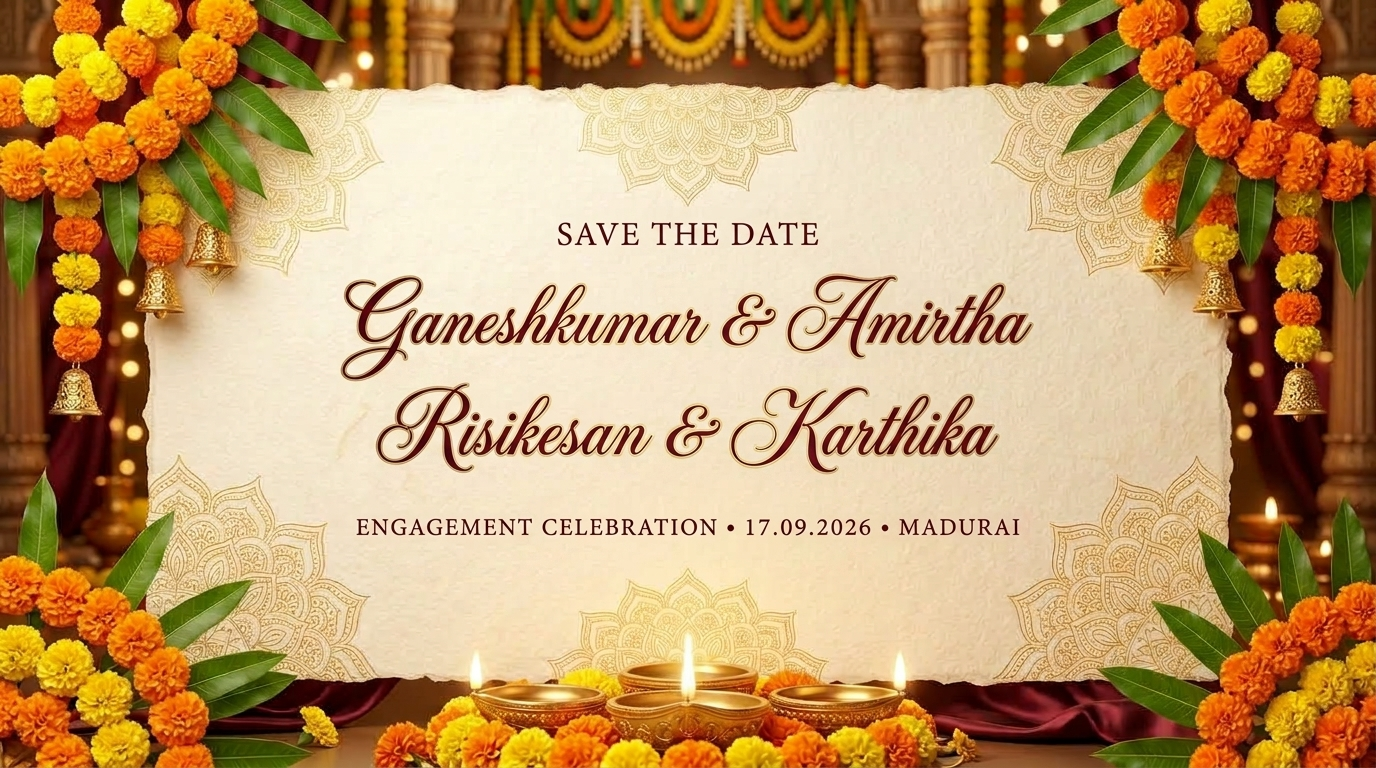
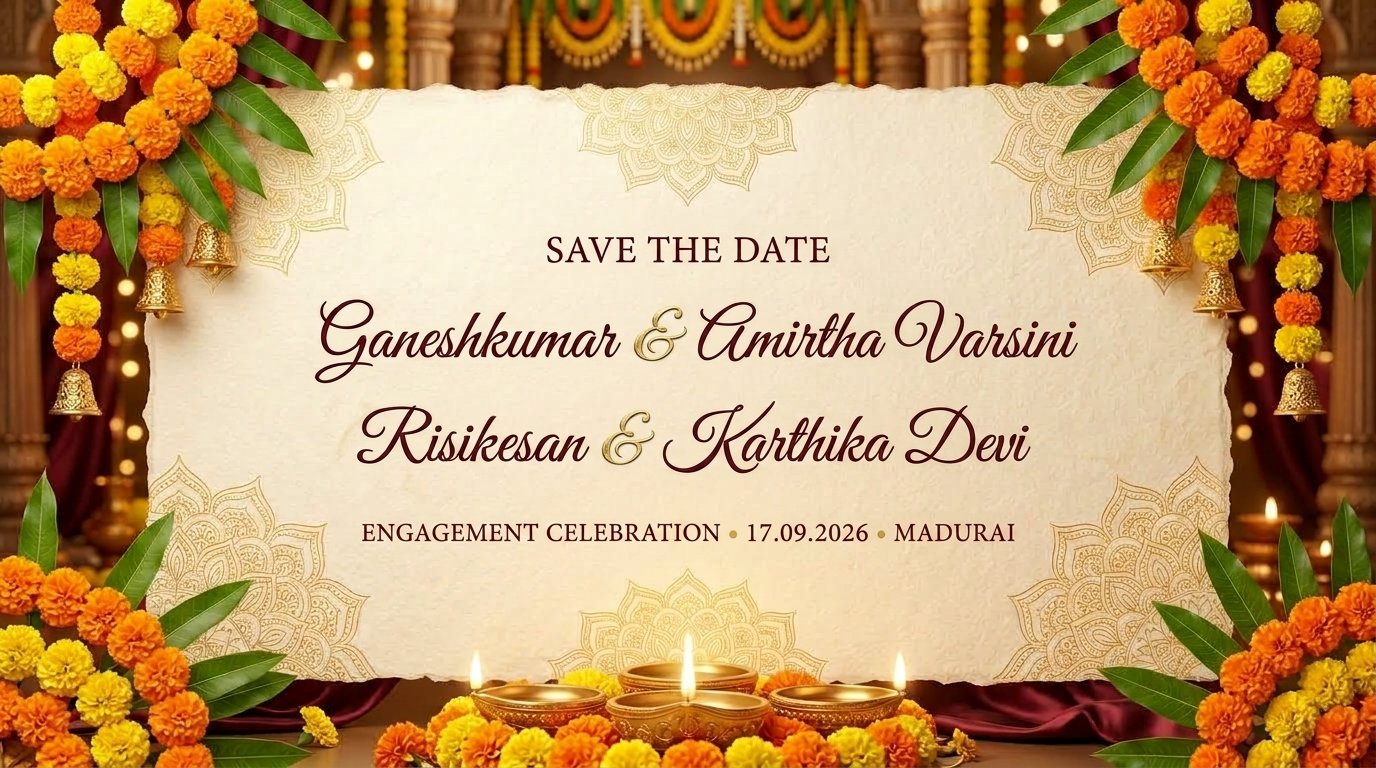
Change place to Madurai and update brides names to Amirtha Varsini and Karthika Devi

Changed region(s): [[0.2188, 0.2812, 0.7812, 0.5], [0.25, 0.5, 0.75, 0.625], [0.25, 0.6562, 0.75, 0.7188]]

diff --git a/index.html b/index.html
@@ -3,27 +3,27 @@
   <head>
     <meta charset="UTF-8" />
     <meta name="viewport" content="width=device-width, initial-scale=1.0, viewport-fit=cover" />
-    <title>Ganeshkumar &amp; Amirtha, Risikesan &amp; Karthika — Engagement Invitation</title>
-    <meta name="description" content="Join us in celebrating the engagement of Ganeshkumar &amp; Amirtha along with Risikesan &amp; Karthika on Thursday, 17th September 2026 at V S Chellam Saraswathy Maaligai, Madurai." />
+    <title>Ganeshkumar &amp; Amirtha Varsini, Risikesan &amp; Karthika Devi — Engagement Invitation</title>
+    <meta name="description" content="Join us in celebrating the engagement of Ganeshkumar &amp; Amirtha Varsini along with Risikesan &amp; Karthika Devi on Thursday, 17th September 2026 at V S Chellam Saraswathy Maaligai, Madurai." />
     <link rel="icon" type="image/x-icon" href="/favicon.ico" />
 
     <!-- Open Graph / Facebook / WhatsApp / Telegram -->
     <meta property="og:type" content="website" />
     <meta property="og:url" content="https://ganeshkumar-amirtha.invitingyou.top/" />
-    <meta property="og:title" content="Ganeshkumar &amp; Amirtha, Risikesan &amp; Karthika — Engagement Invitation" />
-    <meta property="og:description" content="We warmly invite you to celebrate the Engagement Ceremony of Ganeshkumar &amp; Amirtha and Risikesan &amp; Karthika on September 17, 2026 at Madurai." />
+    <meta property="og:title" content="Ganeshkumar &amp; Amirtha Varsini, Risikesan &amp; Karthika Devi — Engagement Invitation" />
+    <meta property="og:description" content="We warmly invite you to celebrate the Engagement Ceremony of Ganeshkumar &amp; Amirtha Varsini and Risikesan &amp; Karthika Devi on September 17, 2026 at Madurai." />
     <meta property="og:image" content="https://ganeshkumar-amirtha.invitingyou.top/og-image.png" />
     <meta property="og:image:secure_url" content="https://ganeshkumar-amirtha.invitingyou.top/og-image.png" />
     <meta property="og:image:type" content="image/png" />
     <meta property="og:image:width" content="1200" />
     <meta property="og:image:height" content="630" />
-    <meta property="og:image:alt" content="Engagement Invitation of Ganeshkumar &amp; Amirtha, Risikesan &amp; Karthika" />
-    <meta property="og:site_name" content="Ganeshkumar &amp; Amirtha Wedding Invitation" />
+    <meta property="og:image:alt" content="Engagement Invitation of Ganeshkumar &amp; Amirtha Varsini, Risikesan &amp; Karthika Devi" />
+    <meta property="og:site_name" content="Ganeshkumar &amp; Amirtha Varsini Wedding Invitation" />
 
     <!-- Twitter Card -->
     <meta name="twitter:card" content="summary_large_image" />
-    <meta name="twitter:title" content="Ganeshkumar &amp; Amirtha, Risikesan &amp; Karthika — Engagement Invitation" />
-    <meta name="twitter:description" content="We warmly invite you to celebrate the Engagement Ceremony of Ganeshkumar &amp; Amirtha and Risikesan &amp; Karthika on September 17, 2026 at Madurai." />
+    <meta name="twitter:title" content="Ganeshkumar &amp; Amirtha Varsini, Risikesan &amp; Karthika Devi — Engagement Invitation" />
+    <meta name="twitter:description" content="We warmly invite you to celebrate the Engagement Ceremony of Ganeshkumar &amp; Amirtha Varsini and Risikesan &amp; Karthika Devi on September 17, 2026 at Madurai." />
     <meta name="twitter:image" content="https://ganeshkumar-amirtha.invitingyou.top/og-image.png" />
   </head>
   <body>

diff --git a/src/routes/index.tsx b/src/routes/index.tsx
@@ -15,8 +15,8 @@ import { Venue } from "@/components/invite/Venue";
 import { invite } from "@/config/invite";
 import { useSmoothScroll } from "@/hooks/use-smooth-scroll";
 
-const title = `Ganeshkumar & Amirtha, Risikesan & Karthika — ${invite.dayLine.split(",")[1]?.trim() ?? invite.dateLabel}`;
-const description = `Ganeshkumar & Amirtha along with Risikesan & Karthika invite you to their engagement on ${invite.dayLine} at ${invite.venue.name}.`;
+const title = `Ganeshkumar & Amirtha Varsini, Risikesan & Karthika Devi — ${invite.dayLine.split(",")[1]?.trim() ?? invite.dateLabel}`;
+const description = `Ganeshkumar & Amirtha Varsini along with Risikesan & Karthika Devi invite you to their engagement on ${invite.dayLine} at ${invite.venue.name}.`;
 
 const prodUrl = "https://ganeshkumar-amirtha.invitingyou.top";
 const ogImageUrl = `${prodUrl}/og-image.png`;
@@ -36,7 +36,7 @@ export const Route = createFileRoute("/")({
       { property: "og:image:width", content: "1200" },
       { property: "og:image:height", content: "630" },
       { property: "og:image:alt", content: title },
-      { property: "og:site_name", content: "Ganeshkumar & Amirtha Wedding Invitation" },
+      { property: "og:site_name", content: "Ganeshkumar & Amirtha Varsini Wedding Invitation" },
       { name: "twitter:card", content: "summary_large_image" },
       { name: "twitter:title", content: `${title} · Save the Date` },
       { name: "twitter:description", content: description },

diff --git a/src/components/invite/Envelope.tsx b/src/components/invite/Envelope.tsx
@@ -83,15 +83,15 @@ export function Envelope({ onOpen }: { onOpen?: () => void }) {
             You&apos;re invited
           </p>
           <div className="caps mt-3 text-[0.5rem] tracking-widest text-olive/80">
-            <p>Ganeshkumar &amp; Amirtha</p>
-            <p className="mt-1">Risikesan &amp; Karthika</p>
+            <p>Ganeshkumar &amp; Amirtha Varsini</p>
+            <p className="mt-1">Risikesan &amp; Karthika Devi</p>
           </div>
           {/* reserved space for the wax seal that sits on the split line */}
           <div aria-hidden="true" className="h-64 shrink-0" />
           <Flourish className="w-24 rotate-180 text-gold/50" />
           <p className="caps mt-5 text-[0.6rem] text-ink/80">{invite.dateLabel}</p>
           <p className="caps mt-3 text-[0.48rem] text-sepia/75">{invite.venue.name}</p>
-          <p className="caps mt-2 text-[0.44rem] text-sepia/50">Ahmedabad</p>
+          <p className="caps mt-2 text-[0.44rem] text-sepia/50">Madurai</p>
         </div>
       </div>
 

diff --git a/src/config/invite.ts b/src/config/invite.ts
@@ -3,7 +3,7 @@
 // ─────────────────────────────────────────────────────────────
 
 export const invite = {
-  bride: "Amirtha & Karthika",
+  bride: "Amirtha Varsini & Karthika Devi",
   groom: "Ganeshkumar & Risikesan",
   /** Shown big in the hero */
   dateLabel: "17.09.26",
@@ -14,7 +14,7 @@ export const invite = {
   timeZoneOffset: "+05:30",
   dayLine: "Thursday, 17th September 2026",
   timeLine: "6:00 PM to 7:00 PM",
-  eventTitle: "Engagement of Ganeshkumar & Amirtha, Risikesan & Karthika",
+  eventTitle: "Engagement of Ganeshkumar & Amirtha Varsini, Risikesan & Karthika Devi",
   invitationNote:
     "We warmly invite you to celebrate our engagement and bless us as we begin this wonderful journey together. Your presence and blessings will make this occasion truly unforgettable.",
   venue: {

diff --git a/src/components/invite/Introduction.tsx b/src/components/invite/Introduction.tsx
@@ -71,7 +71,7 @@ export function Introduction() {
             viewport={{ once: true, margin: "-60px" }} transition={{ duration: 0.7, delay: 0.3 }}>
             &
           </motion.span>
-          <ScriptNames text="Amirtha" delay={0.2} />
+          <ScriptNames text="Amirtha Varsini" delay={0.2} />
         </div>
 
         <motion.p className="caps mt-3 text-[0.55rem] tracking-[0.28em] text-sepia/70"
@@ -116,7 +116,7 @@ export function Introduction() {
             viewport={{ once: true, margin: "-60px" }} transition={{ duration: 0.7, delay: 0.3 }}>
             &
           </motion.span>
-          <ScriptNames text="Karthika" delay={0.25} />
+          <ScriptNames text="Karthika Devi" delay={0.25} />
         </div>
 
         <motion.p className="caps mt-3 text-[0.55rem] tracking-[0.28em] text-sepia/70"

diff --git a/src/components/invite/InviteFooter.tsx b/src/components/invite/InviteFooter.tsx
@@ -61,7 +61,7 @@ export function InviteFooter() {
           style={{ color: "oklch(0.38 0.14 15)" }}>
           <ScriptNames text="Ganeshkumar" />
           <span className="text-2xl font-sans" style={{ color: "oklch(0.76 0.17 60)" }}>&amp;</span>
-          <ScriptNames text="Amirtha" delay={0.15} />
+          <ScriptNames text="Amirtha Varsini" delay={0.15} />
         </div>
 
         {/* Divider */}
@@ -83,7 +83,7 @@ export function InviteFooter() {
           style={{ color: "oklch(0.38 0.14 15)" }}>
           <ScriptNames text="Risikesan" delay={0.3} />
           <span className="text-2xl font-sans" style={{ color: "oklch(0.60 0.18 2)" }}>&amp;</span>
-          <ScriptNames text="Karthika" delay={0.45} />
+          <ScriptNames text="Karthika Devi" delay={0.45} />
         </div>
 
         {/* Date */}

diff --git a/src/components/invite/ActionBar.tsx b/src/components/invite/ActionBar.tsx
@@ -29,7 +29,7 @@ export function ActionBar() {
   const share = async () => {
     tap();
     const data = {
-      title: `Ganeshkumar & Amirtha, Risikesan & Karthika`,
+      title: `Ganeshkumar & Amirtha Varsini, Risikesan & Karthika Devi`,
       text: `You're invited — ${invite.dayLine}, ${invite.venue.name}`,
       url: typeof window !== "undefined" ? window.location.href : "",
     };
